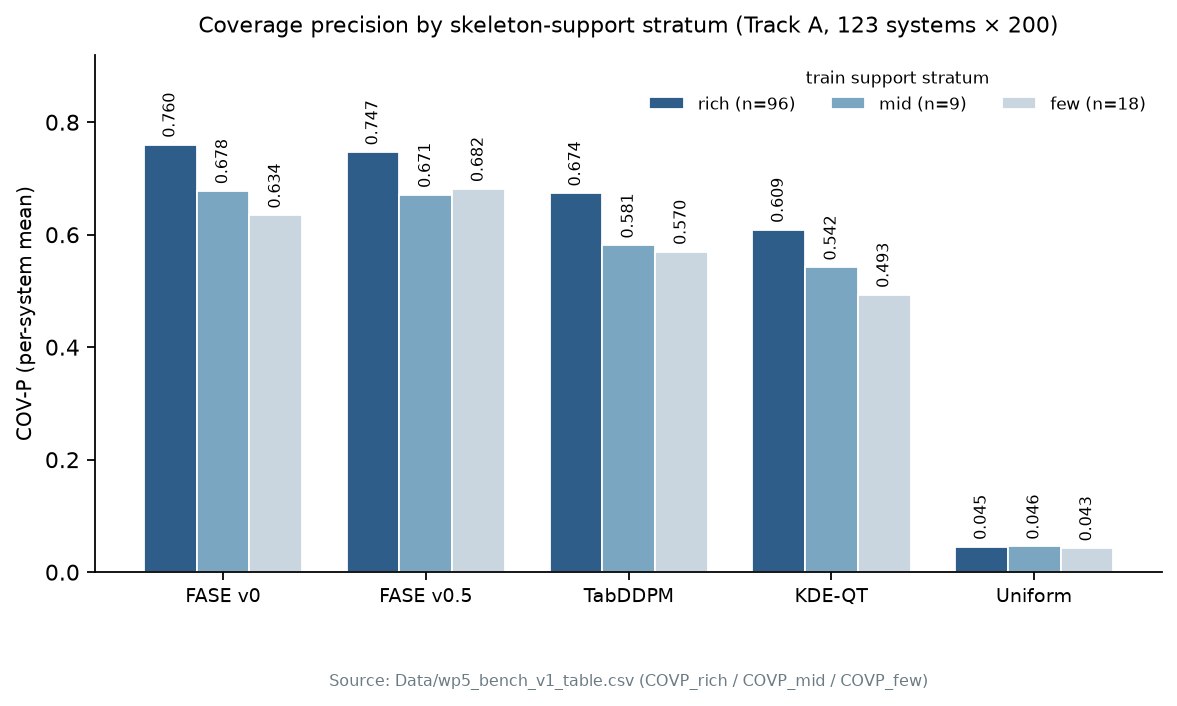
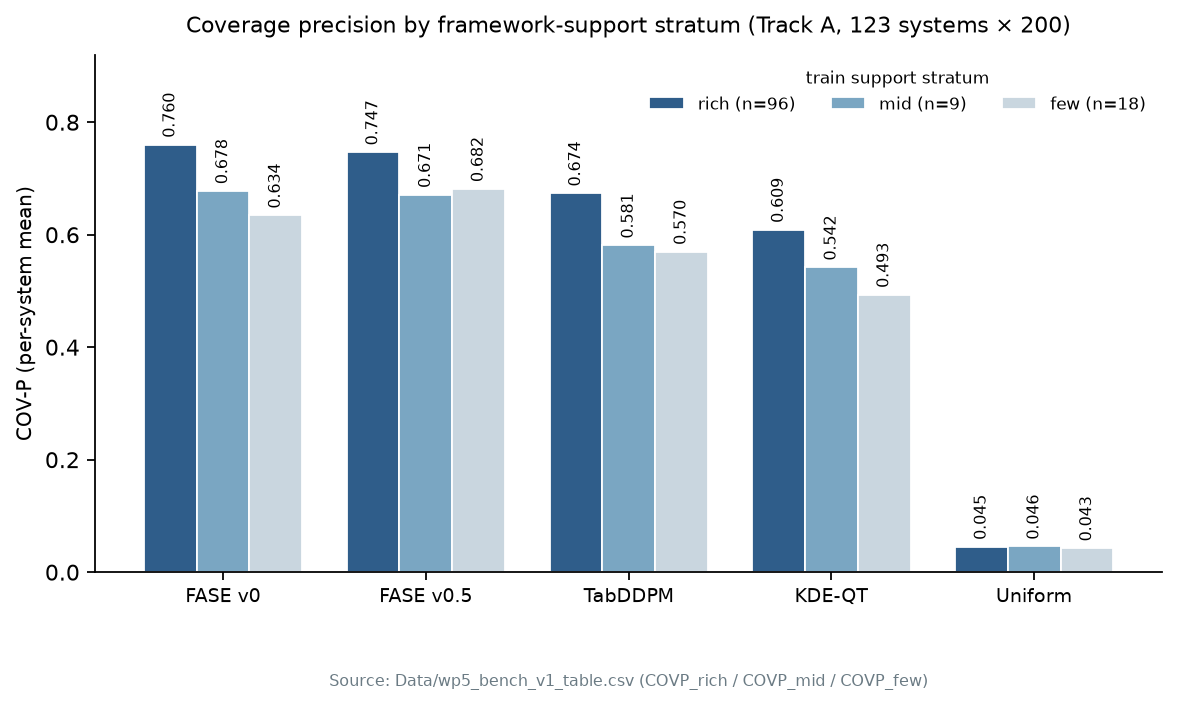
Align the figure wording with the manuscript: rename the Fig. 4 stratum label to framework-support

Changed region(s): [[0.1529, 0.0, 0.9176, 0.0623]]

diff --git a/figures/p21_supp_figs.py b/figures/p21_supp_figs.py
@@ -351,7 +351,7 @@ def fig_stratified(df: pd.DataFrame, out: Path, size: tuple[float, float] = (8.6
               loc="upper right")
     for s in ["top", "right"]:
         ax.spines[s].set_visible(False)
-    ax.set_title("Coverage precision by skeleton-support stratum (Track A, 123 systems × 200)",
+    ax.set_title("Coverage precision by framework-support stratum (Track A, 123 systems × 200)",
                  fontsize=10, pad=10)
     ax.text(0.5, -0.22, "Source: Data/wp5_bench_v1_table.csv (COVP_rich / COVP_mid / COVP_few)",
             transform=ax.transAxes, ha="center", fontsize=7.2, color="#6b7b84")
